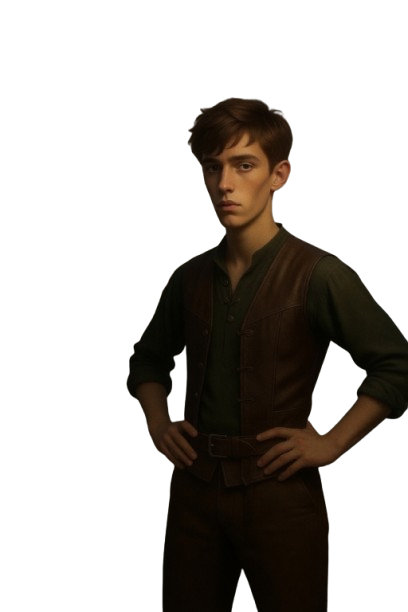
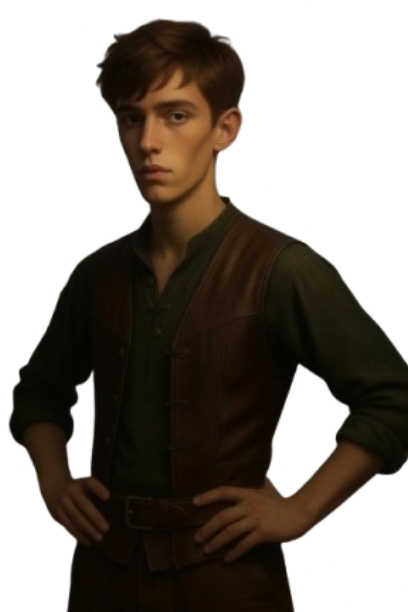
Jans pop bijgesneden zodat hij de standaardmaat gebruikt
Jans PNG stond veel ruimer in zijn kader dan de andere spelers-pops
(lege lucht boven het hoofd, figuur klein in beeld). De CSS blies hem
daarom op naar 78vh/680px, waardoor zijn voetafdruk op het scherm veel
breder was en er een stapel Jan-uitzonderingen nodig was.

- jan-pop.png bijgesneden naar dezelfde inkadering als de anderen
  (venster gemeten op de alfa-bounding-box, verhouding exact 2:3
  behouden, terug geschaald naar 408x612)
- Jan-uitzonderingen verwijderd: char-pop maat, wachtscherm-maat (2x),
  telefoon-maat, drie reserve-regels voor dialoogtekst en de
  districten-strip, en de maat-map in toonPopDialoog
- Jan valt nu overal onder dezelfde generieke pop-regels als de rest

Claude-Session: https://claude.ai/code/session_01THb29sNnrFx9sU6BcoVeyV

diff --git a/zilverweide.html b/zilverweide.html
@@ -904,10 +904,8 @@ body.woudscene-actief .finale-btn{display:none !important;}
    beeld zodat de NPC linksom naar het midden kijkt. */
 #npc-pop{position:fixed;bottom:0;right:0;z-index:150;pointer-events:none;opacity:0;transition:opacity .5s ease}
 #npc-pop img{display:block;height:55vh;max-height:480px;width:auto;filter:drop-shadow(-4px 4px 16px rgba(0,0,0,.7));transform:scaleX(-1)}
-/* Jan's PNG is wijder ingekaderd dan de andere personages — we vergroten
-   'm hier in CSS zodat hij ongeveer dezelfde lichaamsmaat in beeld toont.
-   Hij wordt iets uit beeld geschoven aan de onderkant, net als Kelly. */
-#char-pop img.pop-jan{height:78vh;max-height:680px;margin-bottom:-8vh}
+/* Jans PNG is inmiddels net zo strak ingekaderd als de andere personages
+   (bijgesneden), dus hij gebruikt gewoon de standaardmaat hierboven. */
 #char-bubble{position:absolute;left:75%;bottom:65%;max-width:280px;background:#f5ead6;color:#1a1208;font-family:'Crimson Text',Georgia,serif;font-size:1rem;line-height:1.4;padding:.85rem 1.1rem;border-radius:18px;box-shadow:0 6px 20px rgba(0,0,0,.5);display:none;animation:bubblePopIn .4s cubic-bezier(.34,1.56,.64,1) .35s both;font-style:normal}
 #char-bubble::after{content:'';position:absolute;bottom:-12px;left:24px;width:0;height:0;border:12px solid transparent;border-top-color:#f5ead6;border-bottom:0;border-left:0;transform:skewX(-15deg)}
 @keyframes bubblePopIn{0%{opacity:0;transform:scale(.7) translateY(10px)}100%{opacity:1;transform:scale(1) translateY(0)}}
@@ -1067,15 +1065,12 @@ body.pf-cinema-actief .interactie-panel{display:none !important}
   pointer-events:none;
 }
 #wt-pop-img.wt-zichtbaar{opacity:1}
-/* Jans PNG is wijder ingekaderd, zelfde correctie als bij char-pop. */
-#wt-pop-img.pop-jan{height:50vh;max-height:420px}
 /* Korte schermen (telefoon liggend): zelfde grens als de rest van het
    spel (zie de andere @media (max-height:520px)-blokken). De wacht-
    inhoud eronder is niet schaalbaar qua tekstgrootte, dus de pop moet
    hier extra plaats afstaan. */
 @media (max-height:520px){
   #wt-pop-img{height:26vh;max-height:220px;top:1.5vh}
-  #wt-pop-img.pop-jan{height:32vh;max-height:260px}
 }
 /* Extreem kort (telefoon liggend op de kleinste modellen): de vaste
    rollijst/spinner alleen al vult zo'n scherm bijna volledig. Geen
@@ -1444,7 +1439,6 @@ body.pf-cinema-actief .interactie-panel{display:none !important}
   #screen-locatie .sc-dialog-body { padding: .5rem .8rem !important; }
   #screen-locatie .sc-dialog-tekst { font-size: .9rem !important; line-height: 1.4 !important; }
   #char-pop img { height: 46vh !important; max-height: 240px !important; }
-  #char-pop img.pop-jan { height: 60vh !important; max-height: 300px !important; margin-bottom: -3vh !important; }
   /* NPC-pop krijgt dezelfde verkleining als de speler-pop hierboven. */
   #npc-pop img { height: 46vh !important; max-height: 240px !important; }
   /* toonPopDialoog (bv. de put-reünie): eigen los overlay-systeem, dus een
@@ -1558,33 +1552,10 @@ body:has(#char-pop[style*="opacity: 1"]):has(#npc-pop[style*="opacity: 1"]) #scr
   font-size: .85rem !important;
   line-height: 1.28 !important;
 }
-/* Jan is beduidend groter dan de andere pops (pop-jan: 78vh/680px in plaats
-   van 55vh/480px), dus de reserve hierboven (geschaald op de standaard-
-   afmetingen) was te krap: op brede schermen (laptop, tablet-liggend) viel
-   de dialoogtekst onder zijn schouder. Gemeten (niet aangenomen): Jans pop
-   heeft een breedte/hoogte-verhouding van exact 2/3, dus bij zijn plafond
-   van 680px is de reserve 453px (680 * 2/3), en die schaalt mee met 0.78vh
-   * 2/3 = 0.52vh zolang de pop nog niet tegen het plafond zit. */
-body:has(#char-pop[style*="opacity: 1"] #char-pop-img.pop-jan) #screen-locatie.active .sc-dialog-body {
-  padding-left: max(0px, calc(min(453px, var(--vh100) * 0.52) - 50vw + 410px)) !important;
-}
-/* Deze Jan-regel en de dual-pop-regel hierboven hebben toevallig exact
-   dezelfde specificiteit (allebei één :has()-clausule met een ID erin,
-   respectievelijk twee simpelere :has()-clausules). Bij zo'n gelijke stand
-   wint de regel die later in het bestand staat, en dat was tot nu toe
-   steeds deze Jan-regel: zodra Jan met een NPC-pop tegelijk in beeld was,
-   werd de dual-pop-veilige reserve stilzwijgend genegeerd (gevonden bij
-   het Dorendael-onderzoek, Jan + Tobbe bij de woudpoort). Deze aparte
-   Jan-plus-dual-pop-regel heeft drie :has()-achtige onderdelen in plaats
-   van twee, dus altijd hogere specificiteit dan beide regels hierboven, en
-   wint dus gegarandeerd zodra Jan én een NPC-pop tegelijk actief zijn. */
-body:has(#char-pop[style*="opacity: 1"] #char-pop-img.pop-jan):has(#npc-pop[style*="opacity: 1"]) #screen-locatie.active .sc-dialog-body {
-  padding-left: max(0px, min(34vw, calc(min(453px, var(--vh100) * 0.52) - 50vw + 410px))) !important;
-}
-/* Zelfde Jan-uitzondering voor de Verborgen Hand-districtenstrip. */
-body:has(#char-pop[style*="opacity: 1"] #char-pop-img.pop-jan) #screen-locatie.active .vh-strip {
-  padding-left: max(0px, calc(min(453px, var(--vh100) * 0.52) - 50vw + 410px)) !important;
-}
+/* Jans pop had hier vroeger drie eigen uitzonderingsregels omdat hij in CSS
+   groter werd gerenderd (78vh/680px). Zijn PNG is inmiddels bijgesneden en
+   hij gebruikt de standaardmaat, dus de generieke regels hierboven dekken
+   hem nu ook. */
 .heks-keuze-locked:hover { box-shadow: none; }
 .heks-keuze-locked:hover::before { opacity: .18 !important; }
 /* De speler-pop (links onder) valt over de eerste verdachte-tegel op het
@@ -14702,10 +14673,10 @@ function toonPopDialoog(stappen, callback) {
   overlay.id = 'pop-dialoog-overlay';
   overlay.style.cssText = 'position:fixed;inset:0;z-index:550;pointer-events:none';
 
-  // Grootte per personage — zelfde als de echte pop-CSS
-  var POP_GROOTTES = {
-    'karakters/spelers/jan-pop.png':   { height: '78vh', maxHeight: '680px', marginBottom: '-8vh' },
-  };
+  // Grootte per personage, zelfde als de echte pop-CSS. Sinds Jans PNG is
+  // bijgesneden heeft niemand meer een afwijkende maat; de map blijft staan
+  // voor het geval een toekomstige pop er wel een nodig heeft.
+  var POP_GROOTTES = {};
   var POP_STANDAARD = { height: '55vh', maxHeight: '480px', marginBottom: '0' };
 
   function maakPop(zijde) {
